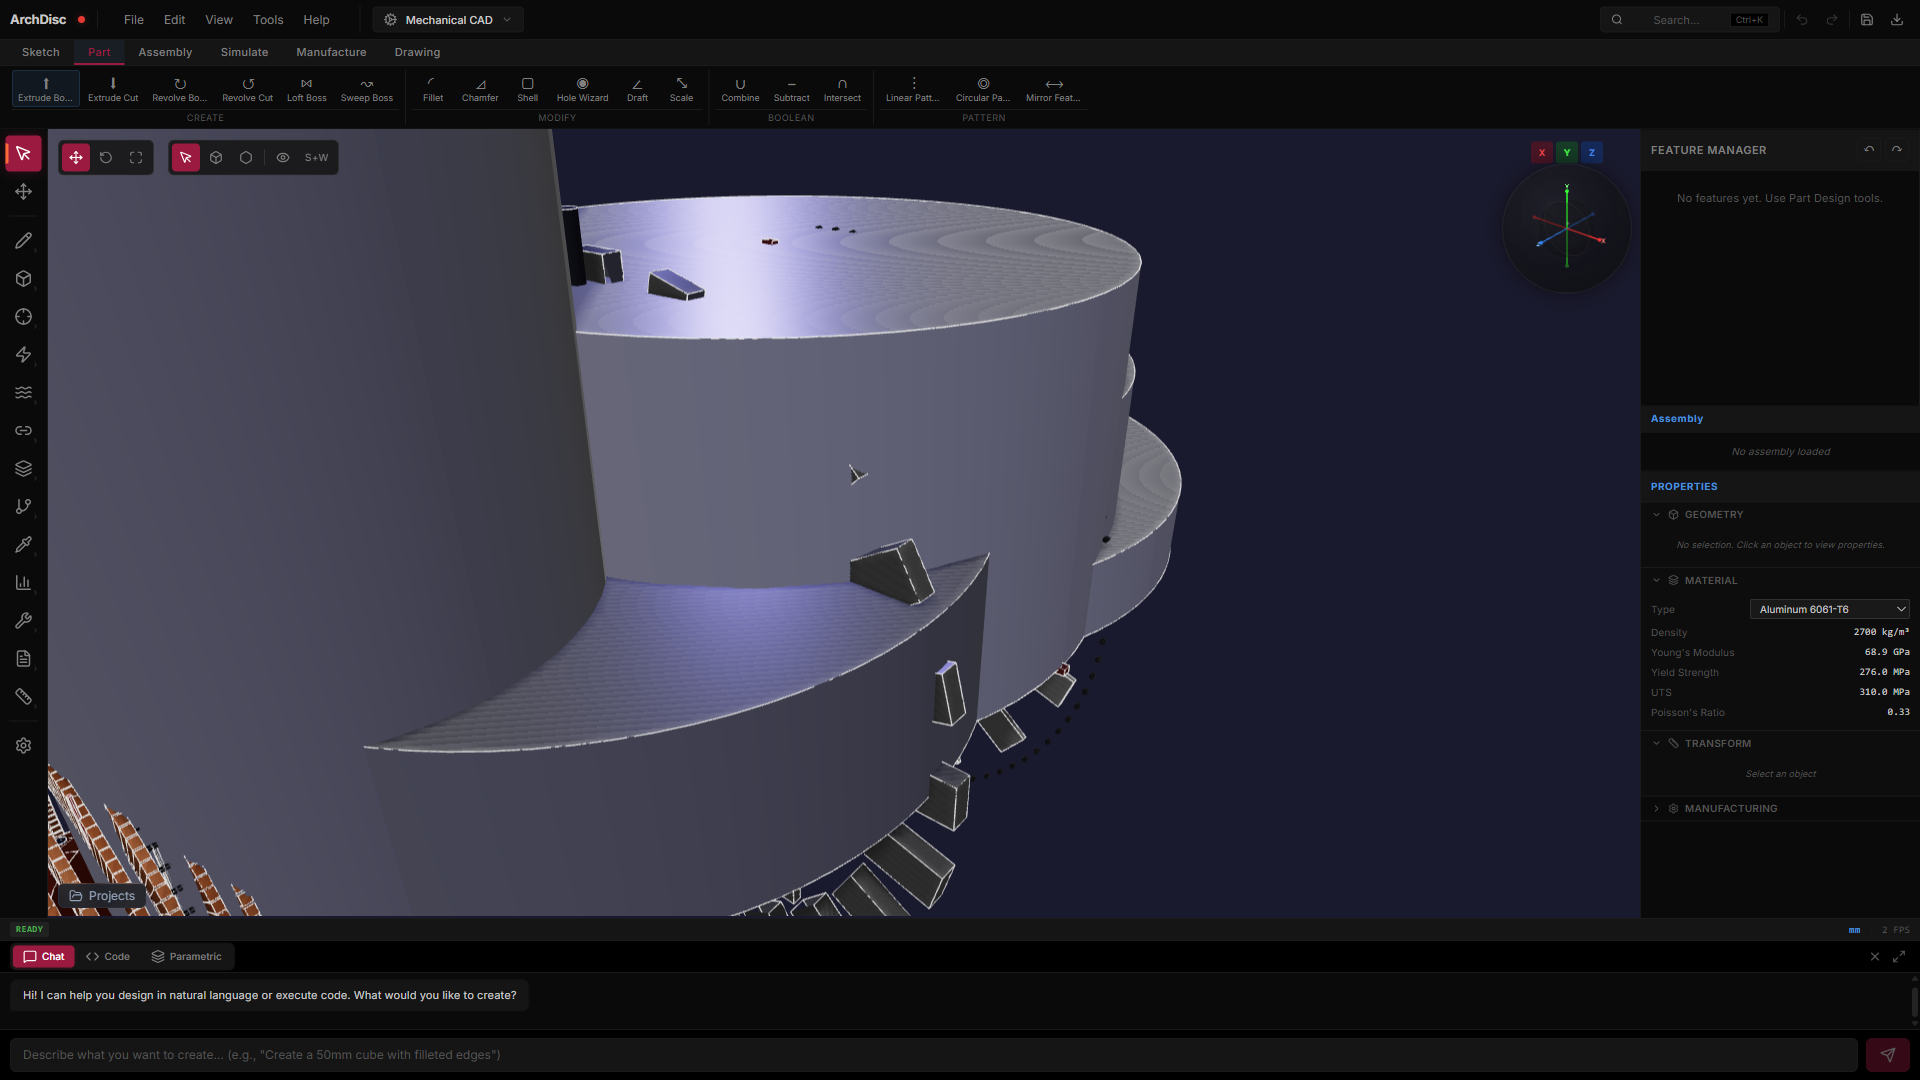
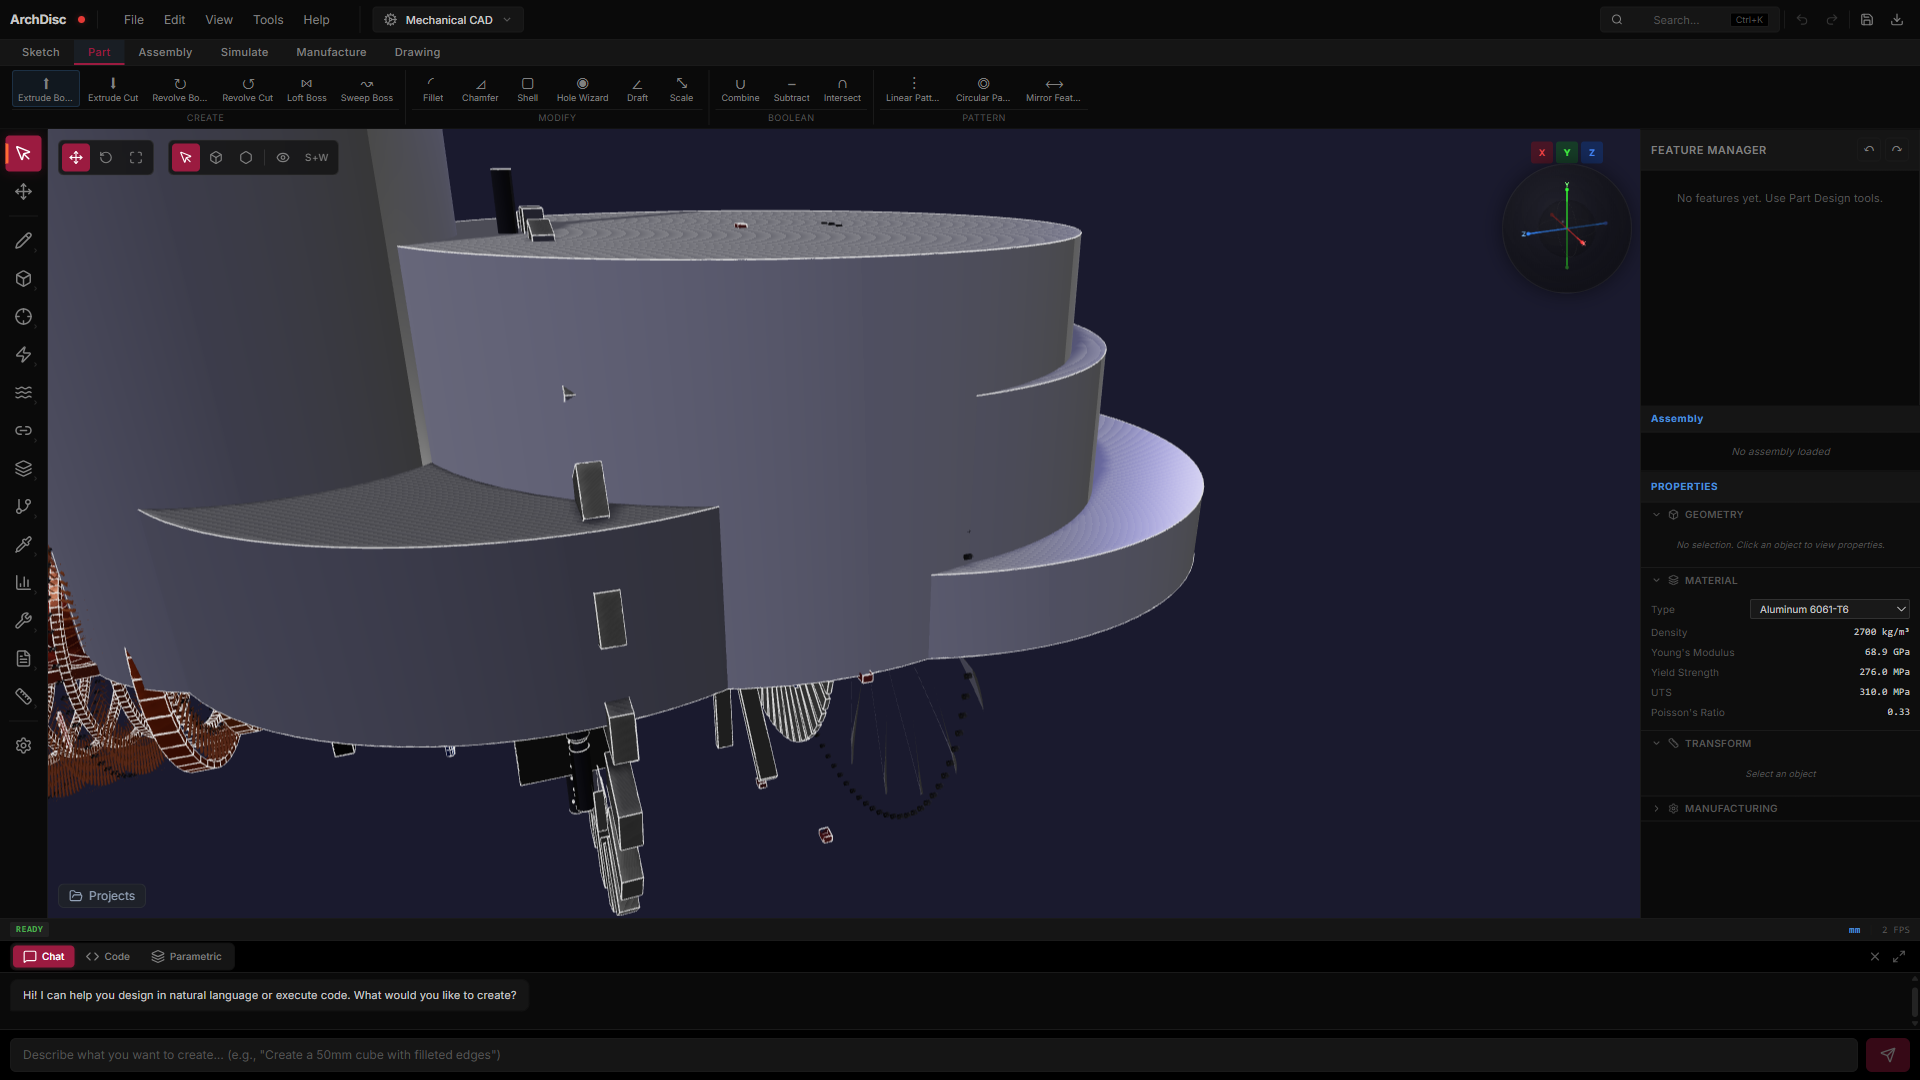
feat(trent1000): Real lofted airfoil blades using NACA profiles
Replaced primitive box blades with real lofted airfoil geometry:

Fan blades: TurbomachineryBlade.fanBlade() - 9 stations from hub to tip
  with twist 65° → 20°, root chord 180mm, tip chord 252mm, NACA profiles

IP Compressor blades: 8 stages, each with own lofted airfoil scaled by stage
  - Per-stage: rotor + stator with proper stagger reversal
  - Real twist: 50° → 25° at root for early stages

HP Compressor blades: 6 stages with stage-scaled airfoils
  - Inconel material, smaller chords for higher pressure

HP Turbine blades: lofted with high-camber turbine airfoil (12% thickness)
  - 76 single-crystal blades, fir-tree roots, tip shrouds

IP Turbine blades: 80 lofted turbine airfoils + matching NGVs

LP Turbine blades: 6 stages × stage-specific lofted airfoils
  - 108-148 rotors per stage with expanding chord/radius

Strategy:
- _bladeCache stores one geometry per unique airfoil definition
- All instances of same blade type share geometry (renders as InstancedMesh)
- Each blade still gets unique tree entry with serial number
- Falls back to box if loft fails (e.g., point count mismatch)

This is the proper way: 1 unique geometry per blade definition,
hundreds of instances each with own name and metadata.

Camera fix: side view from +X showing full engine length (5m).

Changed region(s): [[0.0, 0.1222, 0.625, 0.8556], [0.8125, 0.1833, 0.8438, 0.2139]]

diff --git a/frontend/src/engines/Trent1000Builder.js b/frontend/src/engines/Trent1000Builder.js
@@ -26,6 +26,29 @@ import {
   TurbomachineryBlade, NACA,
 } from '../kernel/index.js';
 
+// Cache built blade geometries — same airfoil definition reused across instances
+const _bladeCache = new Map();
+
+function _getOrBuildBlade(key, builderFn) {
+  if (_bladeCache.has(key)) return _bladeCache.get(key);
+  let solid;
+  try {
+    const profileSpec = builderFn();
+    if (!profileSpec.profiles || profileSpec.profiles.length < 2) {
+      // Fallback: simple box
+      solid = PrimitiveBuilder.box(0.04, 0.4, 0.02);
+    } else {
+      // Loft through airfoil profiles
+      solid = LoftSweep.loft(profileSpec.profiles, 1);
+    }
+  } catch (e) {
+    // Loft failed (e.g., point count mismatch) — fallback to box
+    solid = PrimitiveBuilder.box(0.04, 0.4, 0.02);
+  }
+  _bladeCache.set(key, solid);
+  return solid;
+}
+
 const PI = Math.PI;
 
 // Trent 1000 published dimensions (meters)
@@ -159,25 +182,18 @@ export default class Trent1000Builder {
       material: 'Titanium Ti-6Al-4V',
     });
 
-    // 18 unique fan blade instances (each gets own tree entry)
-    // Use TurbomachineryBlade.fanBlade() to generate the lofted profile
-    const fanBladeProfile = TurbomachineryBlade.fanBlade(rHub, rTip, 0.180);
+    // 18 fan blades — built via real lofted airfoil profiles (NACA-derived).
+    // Geometry is cached and reused for all 18 instances (renders as InstancedMesh)
+    // but each gets a UNIQUE tree entry with its own serial number.
+    const fanBladeSolid = _getOrBuildBlade('fan-blade',
+      () => TurbomachineryBlade.fanBlade(rHub, rTip, 0.180));
 
-    // For now, use a representative box geometry but tag with profile data
     for (let i = 0; i < N; i++) {
       const angle = (i / N) * 2 * PI;
-      // Each blade is unique — could vary slightly with manufacturing tolerances
-      const blade = PrimitiveBuilder.box(0.180, rTip - rHub, 0.025);
-      blade.userData.airfoilProfile = fanBladeProfile;
-      blade.userData.serialNumber = `T1000-FB-${1000 + i}`;
-      t.addPart(blade, `Fan Blade ${i + 1} (S/N T1000-FB-${1000 + i})`, {
+      t.addPart(fanBladeSolid, `Fan Blade ${i + 1} (S/N T1000-FB-${1000 + i})`, {
         color: 0xb8b8b8,
-        position: new Vec3(
-          Math.cos(angle) * (rHub + (rTip - rHub) / 2),
-          Math.sin(angle) * (rHub + (rTip - rHub) / 2),
-          0
-        ),
-        rotation: new Vec3(0, 0, angle + PI / 2),
+        position: new Vec3(0, 0, 0),
+        rotation: new Vec3(0, 0, angle),
         material: 'Titanium Ti-6Al-4V',
       });
     }
@@ -297,20 +313,16 @@ export default class Trent1000Builder {
         });
       }
 
-      // Rotor blades — each unique tree entry
+      // Rotor blades — real lofted airfoil per stage (cached, instanced)
       const N_ROTORS = stageBladeCounts[stage];
+      const ipcBladeSolid = _getOrBuildBlade(`ipc-rotor-s${stage}`,
+        () => TurbomachineryBlade.compressorBlade(rHub, rTip, 0.025, stage + 1, N_STAGES));
       for (let i = 0; i < N_ROTORS; i++) {
         const angle = (i / N_ROTORS) * 2 * PI;
-        const blade = PrimitiveBuilder.box(0.025, rTip - rHub, 0.012);
-        blade.userData.serialNumber = `T1000-IPC${stage + 1}R${1000 + i}`;
-        t.addPart(blade, `IPC S${stage + 1} R${i + 1}`, {
+        t.addPart(ipcBladeSolid, `IPC S${stage + 1} R${i + 1}`, {
           color: 0x9a9a9a,
-          position: new Vec3(
-            Math.cos(angle) * (rHub + (rTip - rHub) / 2),
-            Math.sin(angle) * (rHub + (rTip - rHub) / 2),
-            zPos
-          ),
-          rotation: new Vec3(0, 0, angle + PI / 2),
+          position: new Vec3(0, 0, zPos),
+          rotation: new Vec3(0, 0, angle),
           material: 'Titanium Ti-6Al-4V',
         });
       }
@@ -327,19 +339,16 @@ export default class Trent1000Builder {
         });
       }
 
-      // Stator vanes — separate ring downstream of rotor
+      // Stator vanes — separate ring downstream of rotor (cached lofted airfoil)
       const N_STATORS = stageVaneCounts[stage];
+      const ipcStatorSolid = _getOrBuildBlade(`ipc-stator-s${stage}`,
+        () => TurbomachineryBlade.statorVane(rHub, rTip, 0.022, true));
       for (let i = 0; i < N_STATORS; i++) {
         const angle = (i / N_STATORS) * 2 * PI;
-        const vane = PrimitiveBuilder.box(0.022, rTip - rHub, 0.010);
-        t.addPart(vane, `IPC S${stage + 1} V${i + 1}`, {
+        t.addPart(ipcStatorSolid, `IPC S${stage + 1} V${i + 1}`, {
           color: 0x888888,
-          position: new Vec3(
-            Math.cos(angle) * (rHub + (rTip - rHub) / 2),
-            Math.sin(angle) * (rHub + (rTip - rHub) / 2),
-            zPos + 0.045
-          ),
-          rotation: new Vec3(0, 0, angle + PI / 2),
+          position: new Vec3(0, 0, zPos + 0.045),
+          rotation: new Vec3(0, 0, angle),
           material: 'Titanium Ti-6Al-4V',
         });
       }
@@ -405,20 +414,16 @@ export default class Trent1000Builder {
         material: 'Inconel 718',
       });
 
-      // Rotor blades
+      // HPC rotor blades — lofted airfoil per stage
       const N_ROTORS = rotors[stage];
+      const hpcBladeSolid = _getOrBuildBlade(`hpc-rotor-s${stage}`,
+        () => TurbomachineryBlade.compressorBlade(rHub, rTip, 0.018, stage + 1, N_STAGES));
       for (let i = 0; i < N_ROTORS; i++) {
         const angle = (i / N_ROTORS) * 2 * PI;
-        const blade = PrimitiveBuilder.box(0.018, rTip - rHub, 0.010);
-        blade.userData.serialNumber = `T1000-HPC${stage + 1}R${2000 + i}`;
-        t.addPart(blade, `HPC S${stage + 1} R${i + 1}`, {
+        t.addPart(hpcBladeSolid, `HPC S${stage + 1} R${i + 1}`, {
           color: 0x888888,
-          position: new Vec3(
-            Math.cos(angle) * (rHub + (rTip - rHub) / 2),
-            Math.sin(angle) * (rHub + (rTip - rHub) / 2),
-            zPos
-          ),
-          rotation: new Vec3(0, 0, angle + PI / 2),
+          position: new Vec3(0, 0, zPos),
+          rotation: new Vec3(0, 0, angle),
           material: 'Inconel 718',
         });
       }
@@ -435,19 +440,16 @@ export default class Trent1000Builder {
         });
       }
 
-      // Stators
+      // HPC Stators — lofted airfoil
       const N_STATORS = stators[stage];
+      const hpcStatorSolid = _getOrBuildBlade(`hpc-stator-s${stage}`,
+        () => TurbomachineryBlade.statorVane(rHub, rTip, 0.016, true));
       for (let i = 0; i < N_STATORS; i++) {
         const angle = (i / N_STATORS) * 2 * PI;
-        const vane = PrimitiveBuilder.box(0.016, rTip - rHub, 0.008);
-        t.addPart(vane, `HPC S${stage + 1} V${i + 1}`, {
+        t.addPart(hpcStatorSolid, `HPC S${stage + 1} V${i + 1}`, {
           color: 0x787878,
-          position: new Vec3(
-            Math.cos(angle) * (rHub + (rTip - rHub) / 2),
-            Math.sin(angle) * (rHub + (rTip - rHub) / 2),
-            zPos + 0.040
-          ),
-          rotation: new Vec3(0, 0, angle + PI / 2),
+          position: new Vec3(0, 0, zPos + 0.040),
+          rotation: new Vec3(0, 0, angle),
           material: 'Inconel 718',
         });
       }
@@ -635,22 +637,16 @@ export default class Trent1000Builder {
       material: 'Inconel 718',
     });
 
-    // 76 single-crystal blades, hollow with cooling channels
+    // 76 single-crystal blades — high-camber lofted airfoil with cooling
     const N_HPT_BLADES = 76;
+    const hptBladeSolid = _getOrBuildBlade('hpt-blade',
+      () => TurbomachineryBlade.turbineBlade(0.405, 0.490, 0.030, 1, 1));
     for (let i = 0; i < N_HPT_BLADES; i++) {
       const angle = (i / N_HPT_BLADES) * 2 * PI;
-      const blade = PrimitiveBuilder.box(0.030, 0.090, 0.020);
-      blade.userData.serialNumber = `T1000-HPT-B${5000 + i}`;
-      blade.userData.singleCrystal = true;
-      blade.userData.hollow = true;
-      t.addPart(blade, `HPT Blade ${i + 1} (S/N HPT-B${5000 + i}, single crystal)`, {
+      t.addPart(hptBladeSolid, `HPT Blade ${i + 1} (S/N HPT-B${5000 + i}, single crystal)`, {
         color: 0xff8866,
-        position: new Vec3(
-          Math.cos(angle) * 0.450,
-          Math.sin(angle) * 0.450,
-          Z
-        ),
-        rotation: new Vec3(0, 0, angle + PI / 2),
+        position: new Vec3(0, 0, Z),
+        rotation: new Vec3(0, 0, angle),
         material: 'Inconel 718',
       });
 
@@ -673,19 +669,16 @@ export default class Trent1000Builder {
       });
     }
 
-    // 64 nozzle guide vanes (NGVs) upstream of HPT
+    // 64 nozzle guide vanes (NGVs) upstream of HPT — turbine stator
     const N_NGV = 64;
+    const hptNgvSolid = _getOrBuildBlade('hpt-ngv',
+      () => TurbomachineryBlade.statorVane(0.405, 0.490, 0.035, false));
     for (let i = 0; i < N_NGV; i++) {
       const angle = (i / N_NGV) * 2 * PI;
-      const ngv = PrimitiveBuilder.box(0.035, 0.100, 0.025);
-      t.addPart(ngv, `HPT NGV ${i + 1} (CMC Coated)`, {
+      t.addPart(hptNgvSolid, `HPT NGV ${i + 1} (CMC Coated)`, {
         color: 0xee9966,
-        position: new Vec3(
-          Math.cos(angle) * 0.450,
-          Math.sin(angle) * 0.450,
-          Z - 0.060
-        ),
-        rotation: new Vec3(0, 0, angle + PI / 2),
+        position: new Vec3(0, 0, Z - 0.060),
+        rotation: new Vec3(0, 0, angle),
         material: 'Inconel 718',
       });
 
@@ -750,14 +743,14 @@ export default class Trent1000Builder {
       material: 'Inconel 718',
     });
 
+    const iptBladeSolid = _getOrBuildBlade('ipt-blade',
+      () => TurbomachineryBlade.turbineBlade(0.490, 0.620, 0.032, 1, 1));
     for (let i = 0; i < N_BLADES; i++) {
       const angle = (i / N_BLADES) * 2 * PI;
-      const blade = PrimitiveBuilder.box(0.032, 0.130, 0.022);
-      blade.userData.serialNumber = `T1000-IPT-B${6000 + i}`;
-      t.addPart(blade, `IPT Blade ${i + 1} (S/N IPT-B${6000 + i})`, {
+      t.addPart(iptBladeSolid, `IPT Blade ${i + 1} (S/N IPT-B${6000 + i})`, {
         color: 0xee9977,
-        position: new Vec3(Math.cos(angle) * 0.555, Math.sin(angle) * 0.555, Z),
-        rotation: new Vec3(0, 0, angle + PI / 2),
+        position: new Vec3(0, 0, Z),
+        rotation: new Vec3(0, 0, angle),
         material: 'Inconel 718',
       });
       const root = PrimitiveBuilder.box(0.028, 0.030, 0.030);
@@ -769,13 +762,14 @@ export default class Trent1000Builder {
       });
     }
 
+    const iptNgvSolid = _getOrBuildBlade('ipt-ngv',
+      () => TurbomachineryBlade.statorVane(0.490, 0.620, 0.034, false));
     for (let i = 0; i < N_NGV; i++) {
       const angle = (i / N_NGV) * 2 * PI;
-      const ngv = PrimitiveBuilder.box(0.034, 0.130, 0.024);
-      t.addPart(ngv, `IPT NGV ${i + 1}`, {
+      t.addPart(iptNgvSolid, `IPT NGV ${i + 1}`, {
         color: 0xdd8855,
-        position: new Vec3(Math.cos(angle) * 0.555, Math.sin(angle) * 0.555, Z - 0.055),
-        rotation: new Vec3(0, 0, angle + PI / 2),
+        position: new Vec3(0, 0, Z - 0.055),
+        rotation: new Vec3(0, 0, angle),
         material: 'Inconel 718',
       });
     }
@@ -815,18 +809,14 @@ export default class Trent1000Builder {
       });
 
       const N_ROTORS = rotors[stage];
+      const lptBladeSolid = _getOrBuildBlade(`lpt-rotor-s${stage}`,
+        () => TurbomachineryBlade.turbineBlade(rHub, rTip, 0.030, stage + 1, N_STAGES));
       for (let i = 0; i < N_ROTORS; i++) {
         const angle = (i / N_ROTORS) * 2 * PI;
-        const blade = PrimitiveBuilder.box(0.030, rTip - rHub, 0.024);
-        blade.userData.serialNumber = `T1000-LPT${stage + 1}R${7000 + i}`;
-        t.addPart(blade, `LPT S${stage + 1} R${i + 1}`, {
+        t.addPart(lptBladeSolid, `LPT S${stage + 1} R${i + 1}`, {
           color: 0xee9966,
-          position: new Vec3(
-            Math.cos(angle) * (rHub + (rTip - rHub) / 2),
-            Math.sin(angle) * (rHub + (rTip - rHub) / 2),
-            zPos
-          ),
-          rotation: new Vec3(0, 0, angle + PI / 2),
+          position: new Vec3(0, 0, zPos),
+          rotation: new Vec3(0, 0, angle),
           material: 'Inconel 718',
         });
         // Fir tree root
@@ -840,17 +830,14 @@ export default class Trent1000Builder {
       }
 
       const N_STATORS = stators[stage];
+      const lptStatorSolid = _getOrBuildBlade(`lpt-stator-s${stage}`,
+        () => TurbomachineryBlade.statorVane(rHub, rTip, 0.030, false));
       for (let i = 0; i < N_STATORS; i++) {
         const angle = (i / N_STATORS) * 2 * PI;
-        const stator = PrimitiveBuilder.box(0.030, rTip - rHub, 0.022);
-        t.addPart(stator, `LPT S${stage + 1} V${i + 1}`, {
+        t.addPart(lptStatorSolid, `LPT S${stage + 1} V${i + 1}`, {
           color: 0xdd8855,
-          position: new Vec3(
-            Math.cos(angle) * (rHub + (rTip - rHub) / 2),
-            Math.sin(angle) * (rHub + (rTip - rHub) / 2),
-            zPos + 0.055
-          ),
-          rotation: new Vec3(0, 0, angle + PI / 2),
+          position: new Vec3(0, 0, zPos + 0.055),
+          rotation: new Vec3(0, 0, angle),
           material: 'Inconel 718',
         });
       }

diff --git a/e2e/trent1000-visual.spec.js b/e2e/trent1000-visual.spec.js
@@ -47,15 +47,23 @@ test('Trent 1000: render full engine in viewport with instancing', async ({ page
       } else if (obj.isMesh) regularMeshes++;
     });
 
-    // Frame camera on engine
+    // Frame camera — Trent 1000 is ~5m long × 3m diameter
+    // Need side view showing full engine length
     if (window.__three_camera) {
       const box = new THREE.Box3().setFromObject(root);
       const center = box.getCenter(new THREE.Vector3());
-      const size = box.getSize(new THREE.Vector3()).length() || 5;
-      const dist = size * 1.0;
-      window.__three_camera.position.set(center.x + dist * 0.7, center.y + dist * 0.4, center.z + dist * 0.7);
+      const size = box.getSize(new THREE.Vector3());
+      // Engine axis is Z, so camera goes off to the side (X)
+      const dist = Math.max(size.x, size.y, size.z) * 1.5;
+
+      window.__three_camera.position.set(
+        center.x + dist * 1.2,        // side view from +X
+        center.y + dist * 0.35,        // slightly above
+        center.z + dist * 0.3          // slightly off-center
+      );
       window.__three_camera.lookAt(center);
-      window.__three_camera.far = Math.max(window.__three_camera.far, size * 5);
+      window.__three_camera.near = 0.001;
+      window.__three_camera.far = dist * 20;
       window.__three_camera.updateProjectionMatrix();
     }
 
